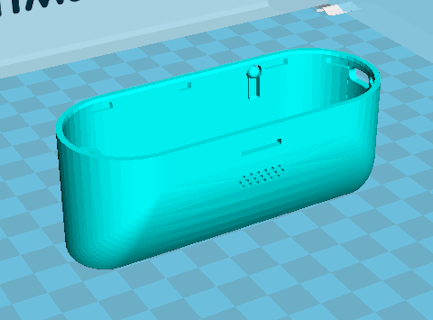
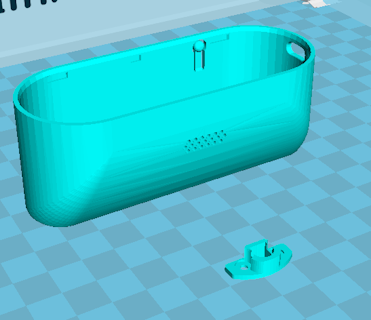
update readme

diff --git a/tembed/Readme.md b/tembed/Readme.md
@@ -15,14 +15,15 @@ Of course, life is not that simple!  Its a ESP32-S3, which is not fully supporte
 This project is targeted as a PURE Squeezebox player for a home office.  I have a small d-class power amplifier with an optical input and a pair of mini JVC bookshelf speakers that came with an old CD player.
 
 ## Case Design
-The [OEM repository](https://github.com/Xinyuan-LilyGO/T-Embed/tree/main) has details of the kit, along with some basic shell designs.  My shell/case is based on this, but modified to to accommidate a Toslink transmitter, battery and an IR reciever.
+The [OEM repository](https://github.com/Xinyuan-LilyGO/T-Embed/tree/main) has details of the kit, along with some basic shell designs.  My shell/case is based on this, but modified to to accommidate a Toslink transmitter, battery and potentially a Network module.  A clip is included to mount an IR reciever to the back of the module.
 
 The T-embed kit comes with a a micro speaker, which I have integrated into the design, even though this and the mono DAC are not a priority on this project.  They do function in event we want to look at making a Radio style player.
 
 ![Case Model](tembed-model.png)
 case:[step](tembed-case.STEP)|[model](tembed-case.STEP) ir clip:[step](tembed-ir-clip.STEP)|[model](tembed-ir-clip.STL)
 
-_NOTE:  The origional design was for a 5mm LED style IR reciever, which would need additional driver electronics.  I used a VS1838B 3-pin version which, once the metal sheild is removed, fits snuggly in the same hole._
+It is necessary to remove the 2 mounting screws and unclip the PCB to solder in header strips. The IR clip can be added under the mounting screws when reassembling.  With the latest design, solder wires directly from the back of the header to the IR sensor.  You can use the ribbon cable and headerr for Toslink only, but the final design may include an ethernet module which will need extra IO.  
+
 
 ## Development code
 
